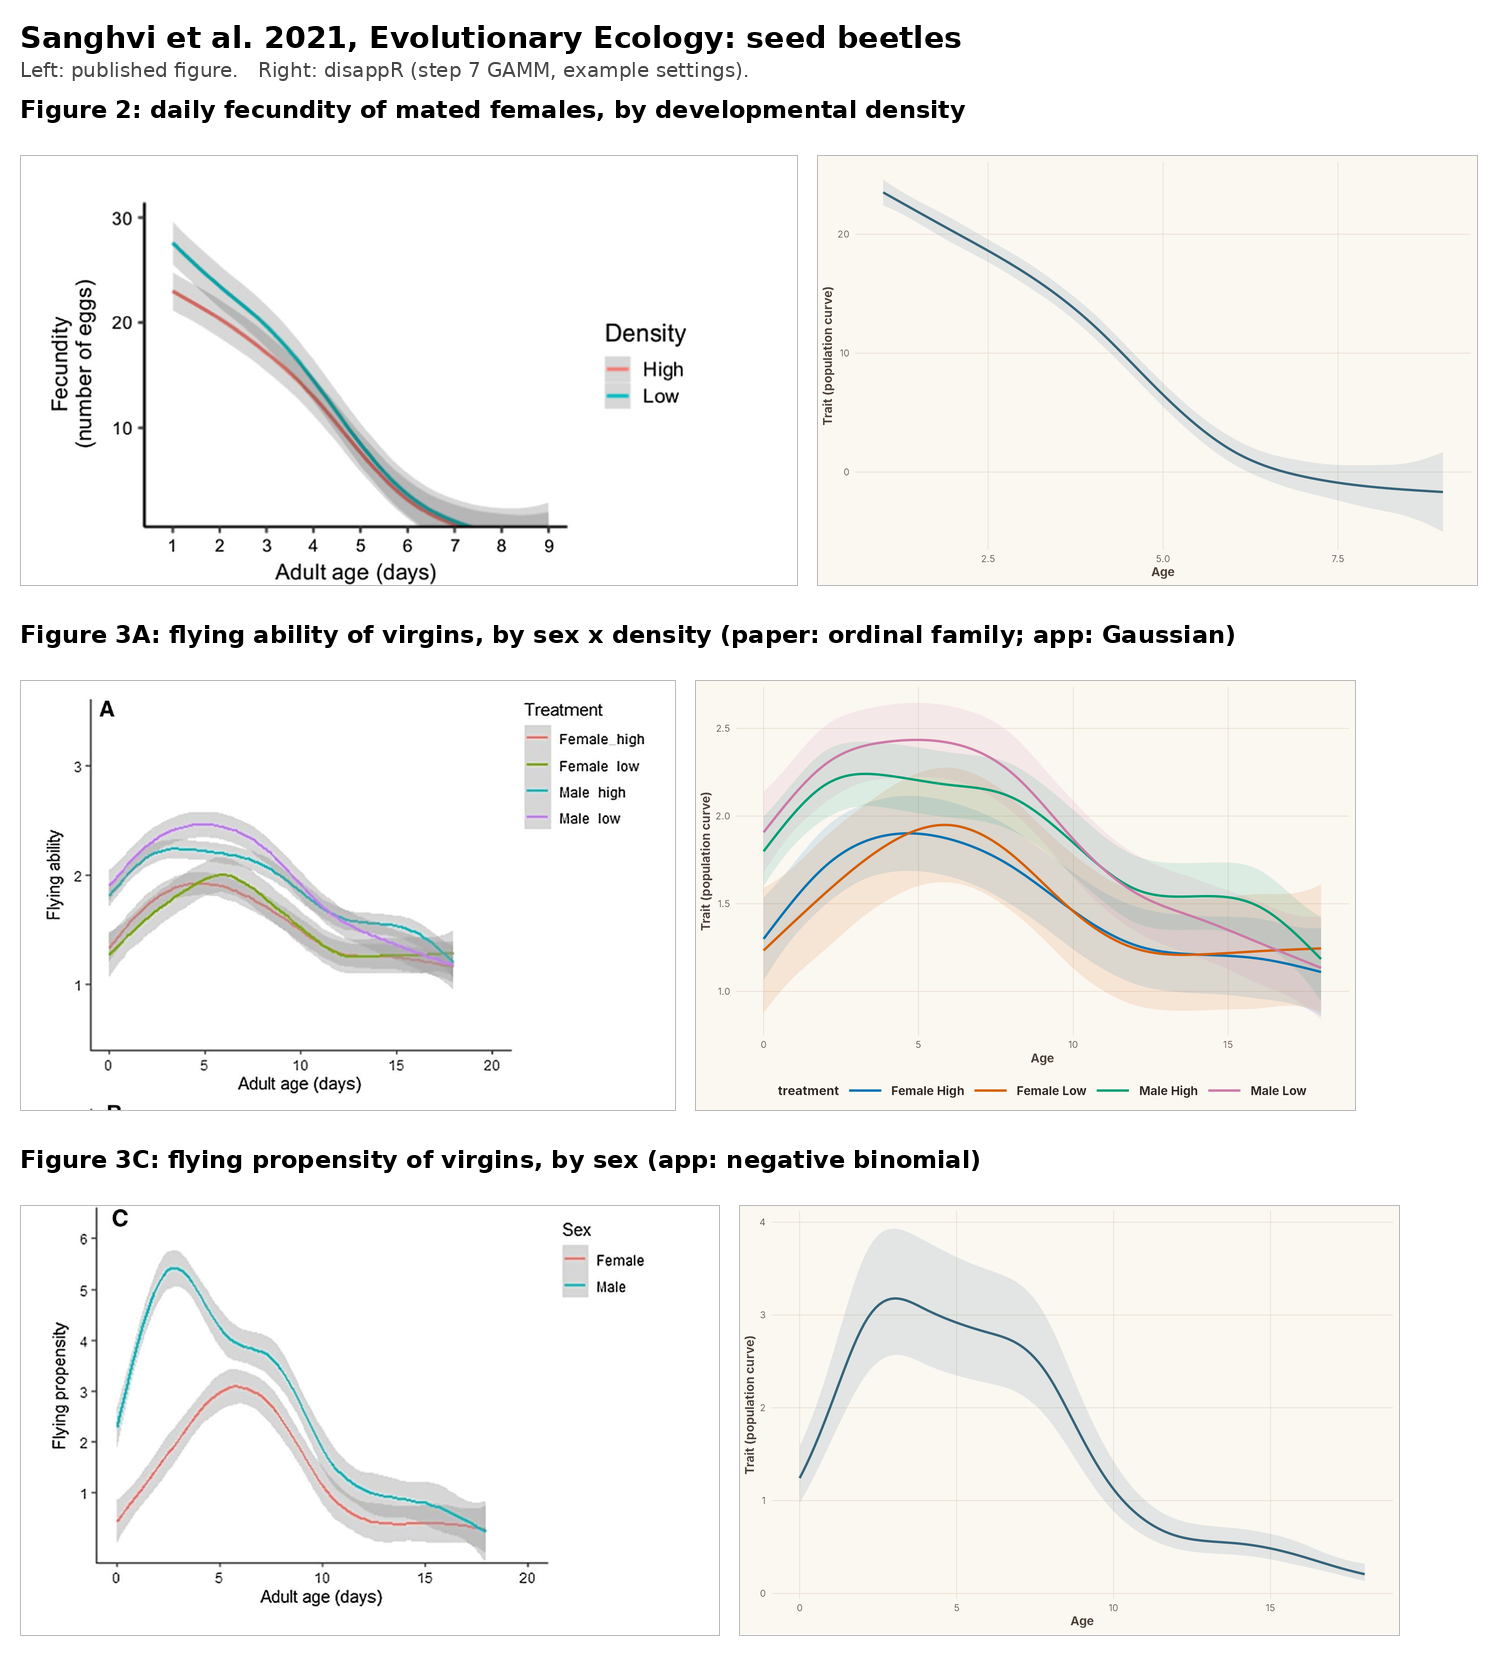
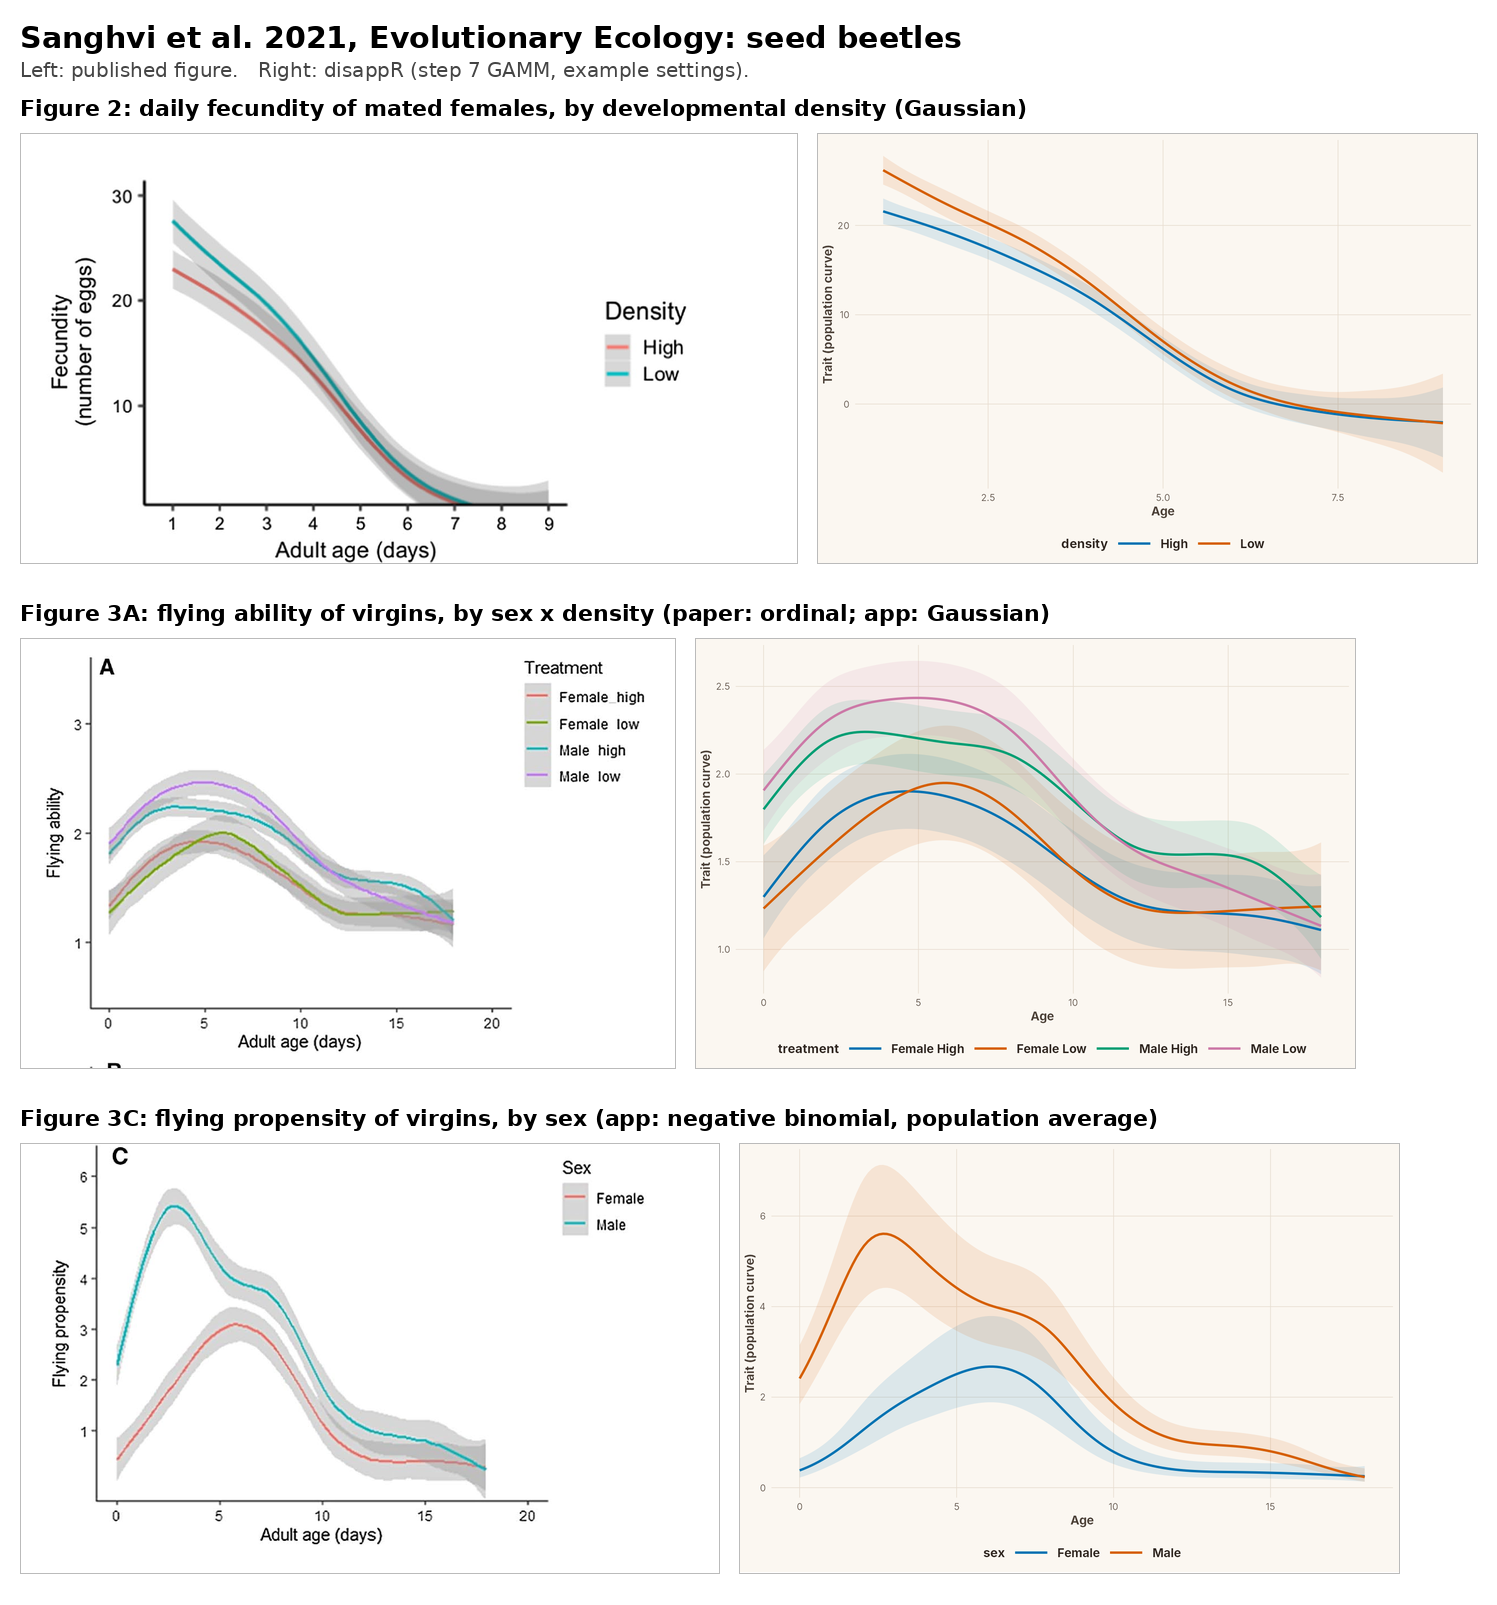
Figure comparison: published Tsui (Figures 1 and 2) and Sanghvi (Figures 2, 3A, 3C) panels beside the app's plots; GAMM plot y-axis always includes the data shown
Claude-Session: https://claude.ai/code/session_01VjwaRZ1ZueRBBsKmuByNTp

diff --git a/inst/validation/gamm/figure_comparison/README.md b/inst/validation/gamm/figure_comparison/README.md
@@ -1,0 +1,27 @@
+# Published figures against disappR (visual check)
+
+Each sheet puts a published panel (left) beside the same analysis in the app (right): the bundled example, its
+GAMM settings, step 7's trajectory plot (data shown as raw records, or no data where the paper shows none) and, for
+Tsui et al., the Ageing rate plot. Built from app screenshots and the papers' figures (Tsui et al. 2026, Evol. Lett.,
+CC BY 4.0, figures from the Europe PMC package; Sanghvi et al. 2021, Evol. Ecol., figures from the article PDF).
+
+| Sheet | Panels |
+|---|---|
+| `tsui_fig1_vs_app_1..3.png` | Tsui Figure 1 (trajectories), 12 of 13 traits (telomere data not deposited) |
+| `tsui_fig2_vs_app_1..3.png` | Tsui Figure 2 (ageing rates, first derivatives) |
+| `sanghvi2021_vs_app.png` | Sanghvi Figures 2, 3A and 3C |
+
+Expected differences:
+
+- Intervals. The app draws simultaneous 95% intervals for the whole curve; Tsui et al. drew standard errors (Figure 1)
+  and pointwise 95% intervals (Figure 2), which are narrower.
+- Reference values. The app holds covariates and lifespan proxies at their means over individuals and averages factor
+  covariates; papers often predict at other values. This shifts curves up or down without changing their shape: Tsui
+  survival (app about 0.9, the observed survival of these birds; paper about 0.5) and reproductive success (app peak
+  about 0.7, with last-reproduction age at its mean over birds; paper about 1.6).
+- Families. Sanghvi Figure 3A used an ordinal (ocat) family; the app treats flight ability as continuous. Fecundity
+  is Gaussian, as the published comparison appears to have been.
+- Group labels. Tsui's sex is coded 0/1 in the deposit; the paper colours females red and males blue.
+- Tsui survival leaves out the 76 records whose previous-year status is 'dead' (complete separation).
+
+Shapes, peaks and the ordering of groups agree in every panel.
